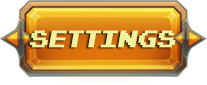
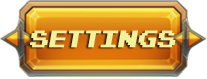
ahora va bien

diff --git a/ProyectoProgIII/src/ventanas/LeMenu.java b/ProyectoProgIII/src/ventanas/LeMenu.java
@@ -119,7 +119,7 @@ public class LeMenu extends JFrame{
 			@Override
 			public void mousePressed(MouseEvent e) {
 				// TODO Auto-generated method stub
-				bT1.setImagen("src/res/eam2.png");
+				bT1.setImagen("src/res/team2.png");
 			}
 			
 			@Override
@@ -153,7 +153,7 @@ public class LeMenu extends JFrame{
 			@Override
 			public void mousePressed(MouseEvent e) {
 				// TODO Auto-generated method stub
-				bSe1.setImagen("src/ressettings2.png");
+				bSe1.setImagen("src/res/settings2.png");
 			}
 			
 			@Override
